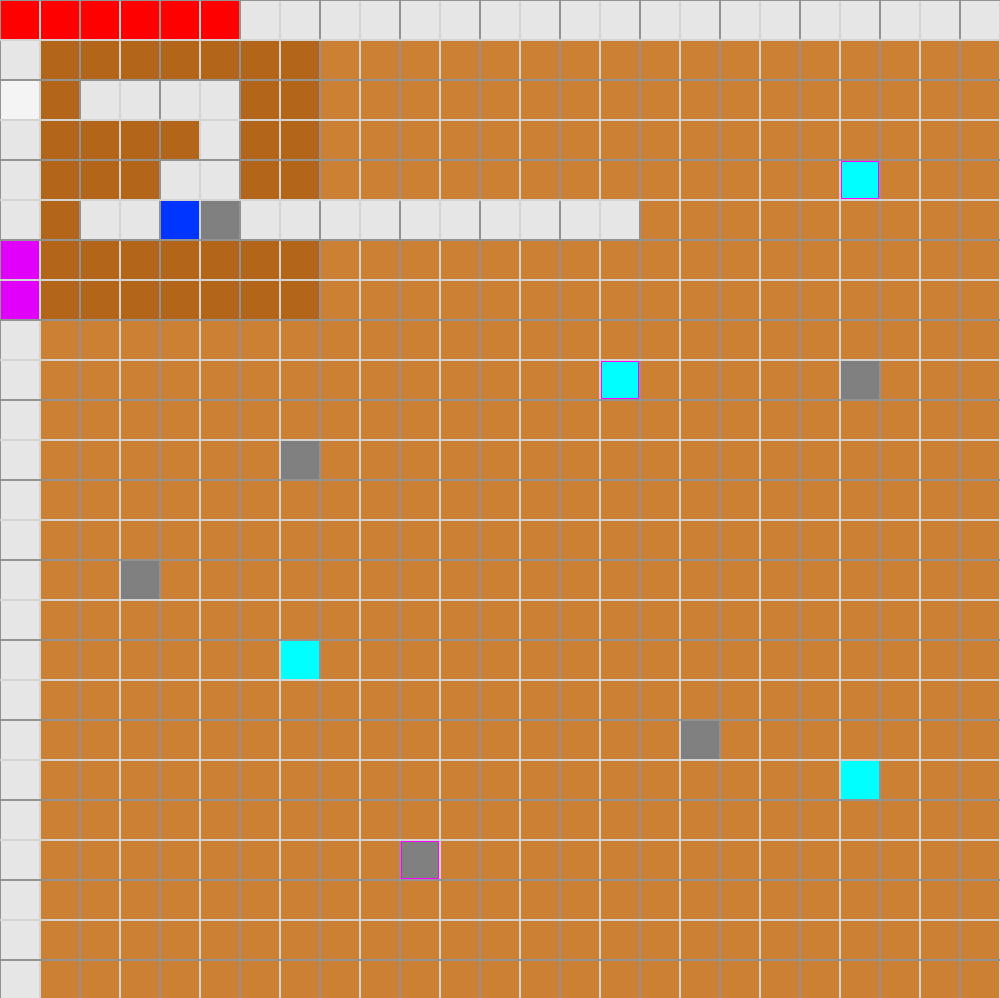
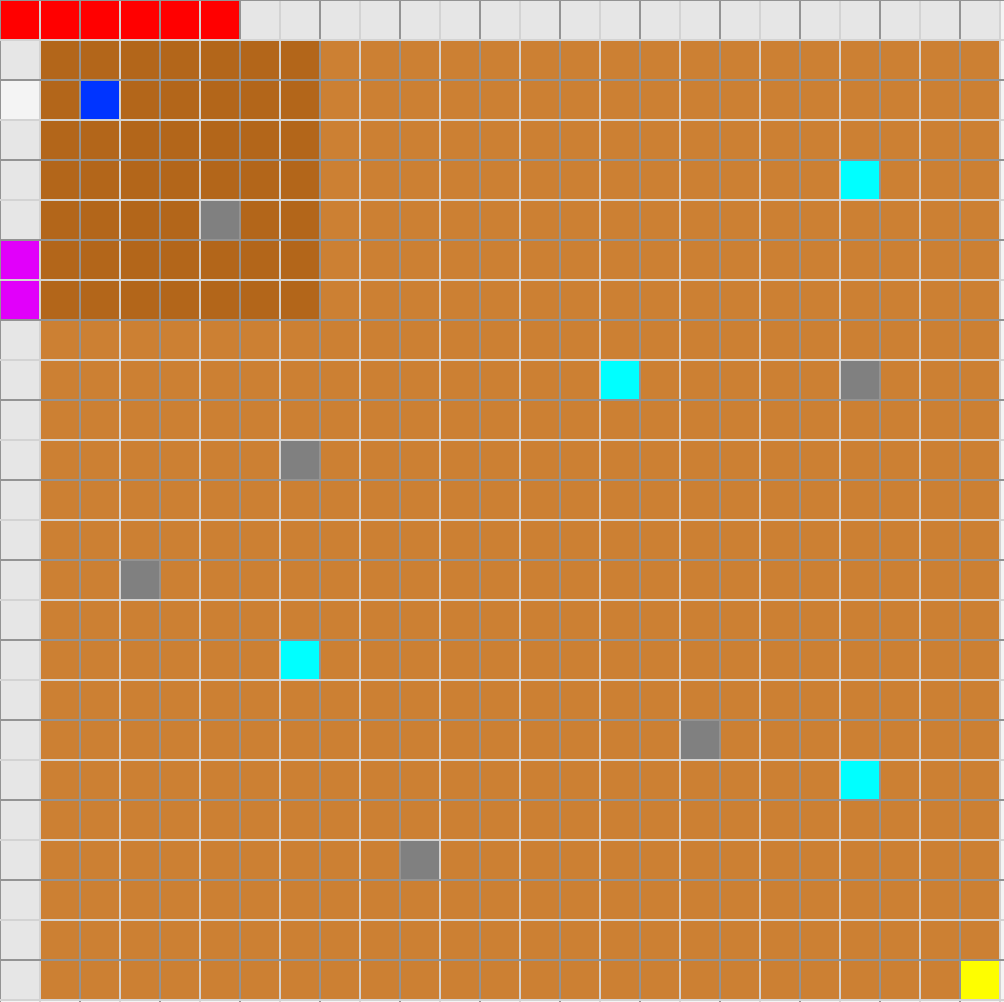
New image

Changed region(s): [[0.0, 0.0, 1.0, 1.0]]

diff --git a/src/NG8x8RGBMatrixGameBoulderdash.cpp b/src/NG8x8RGBMatrixGameBoulderdash.cpp
@@ -535,6 +535,8 @@ void NG8x8RGBMatrixGameBoulderdash::_initLevelTwoMaze() {
     _generateDiamond(16, 19);
     _generateDiamond(6, 21);
     _generateDiamond(19, 23);
+    // Door
+    _generateDoor(x, y);
     // Rocky
     _computeRocky();
 }
@@ -608,6 +610,8 @@ void NG8x8RGBMatrixGameBoulderdash::_initLevelThreeMaze() {
     _generateNPCRight(20, 10);
     _generateNPCUp(7, 21);
     _generateNPCRight(20, 17);
+    // Door
+    _generateDoor(x, y);
     // Rocky
     _computeRocky();
 }
@@ -615,6 +619,8 @@ void NG8x8RGBMatrixGameBoulderdash::_initLevelThreeMaze() {
 void NG8x8RGBMatrixGameBoulderdash::_initLevelFourMaze() {
     // Dirt
     _generateDirtRect(0, 0, GAMEBOULDERDASHMAZESIZEX - 1, GAMEBOULDERDASHMAZESIZEY - 1);
+    // Door
+    _generateDoor(x, y);
     // Rocky
     _computeRocky();
 }
